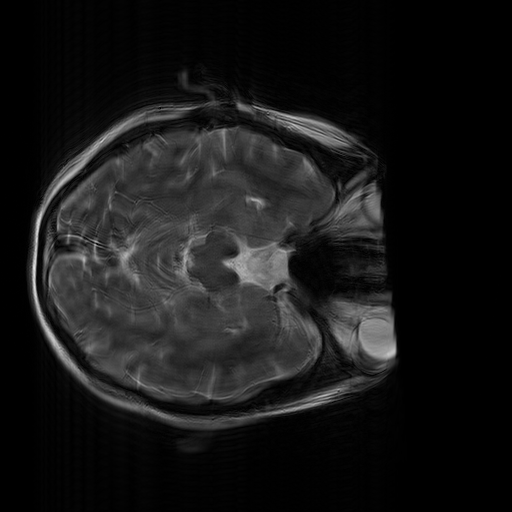
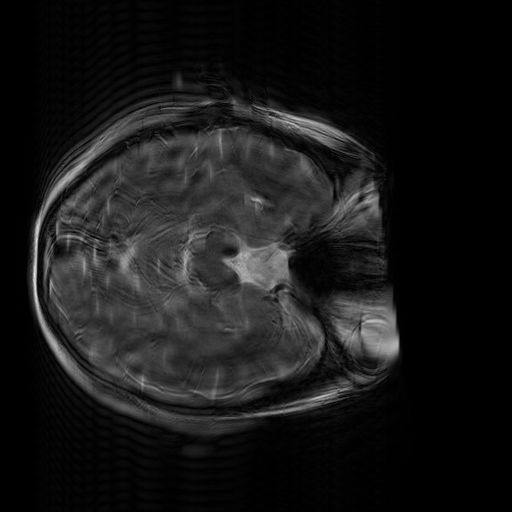
5

diff --git a/realesrgan/models/realesrnet_model.py b/realesrgan/models/realesrnet_model.py
@@ -72,8 +72,6 @@ class RealESRNetModel(SRModel_fft):
     def feed_data(self, data):
         """Accept data from dataloader, and then add two-order degradations to obtain LQ images.
         """
-
-
         if self.is_train and self.opt.get('high_order_degradation', True):
             # 有空嵌入下面的代码
             rot90_prob= self.opt['rot90_prob'] # 旋转90概率
@@ -93,7 +91,7 @@ class RealESRNetModel(SRModel_fft):
             self.kernel1 = data['kernel1'].to(self.device)
             self.kernel2 = data['kernel2'].to(self.device)
             self.sinc_kernel = data['sinc_kernel'].to(self.device)
-            #print('gt', self.gt.size())
+
             ori_h, ori_w = self.gt.size()[2:4]
 
             width, height = self.gt.size()[-1], self.gt.size()[-2]
@@ -241,8 +239,13 @@ class RealESRNetModel(SRModel_fft):
                 temp_reconstructed_image = torch.abs(torch.fft.ifft2(torch.fft.ifftshift(K_data, dim=(-2, -1)), dim=(-2, -1)))
                 rician_std = np.random.uniform(self.opt['rician_noise_range'][0], self.opt['rician_noise_range'][1])
                 temp_rician_image = add_rician_noise(temp_reconstructed_image, std=rician_std)
+
+                """ ↑ full image ↑ """
+
                 K_data = torch.fft.fft2(temp_rician_image, dim=(-2, -1))
                 K_data = torch.fft.fftshift(K_data, dim=(-2, -1))
+
+            self.undersampled = False
 
             if np.random.uniform(0, 1) < undersample_prob:
                 # center_fraction = np.random.uniform(center_fraction_range[0], center_fraction_range[1])
@@ -253,19 +256,23 @@ class RealESRNetModel(SRModel_fft):
                 mask = mask.to(self.device)
                 if np.random.uniform(0, 1) > horizontal_mask_prob:
                     mask = mask.t()
+                self.mask = mask # 保存mask
+                self.nmask = torch.logical_not(mask)
                 K_data = K_data * mask
+                self.undersampled = True # 记录是否欠采
 
             out = torch.abs(torch.fft.ifft2(torch.fft.ifftshift(K_data, dim=(-2, -1)), dim=(-2, -1)))
-
 
             # 增加通道维度
             out = torch.unsqueeze(out, dim=1)
 
             # 增加通道数
             out = out.repeat(1, 3, 1, 1)
-            #print('out', out.size())
+
             # clamp and round
             self.lq = torch.clamp((out * 255.0).round(), 0, 255) / 255.
+
+            """ ↑ under image ↑ """
 
             # random crop
             gt_size = self.opt['gt_size']

diff --git a/basicsrse/models/sr_model.py b/basicsrse/models/sr_model.py
@@ -96,6 +96,8 @@ class SRModel_fft(BaseModel):
     def optimize_parameters(self, current_iter):
         self.optimizer_g.zero_grad()
         self.output = self.net_g(self.lq)
+        print('optimize_parameters')
+        print('self.output', self.output.shape)
 
         l_total = 0
         loss_dict = OrderedDict()
